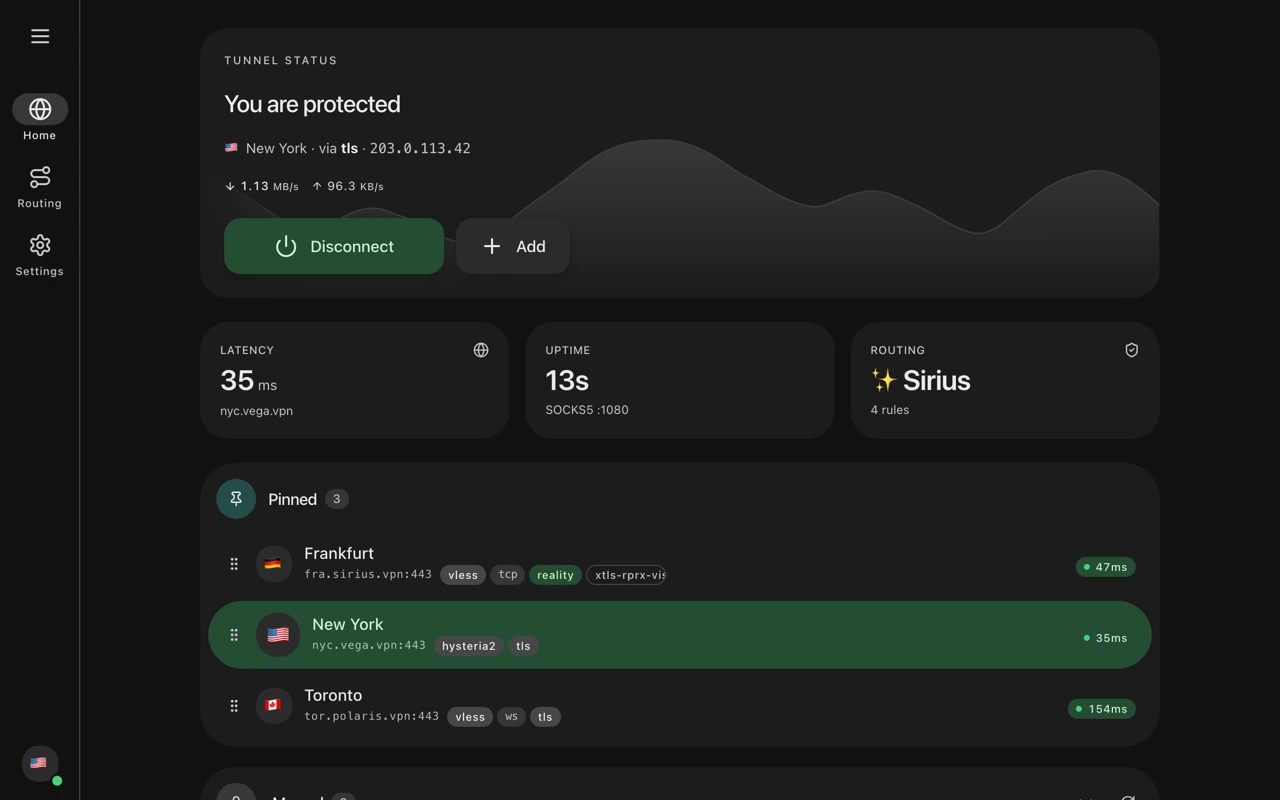
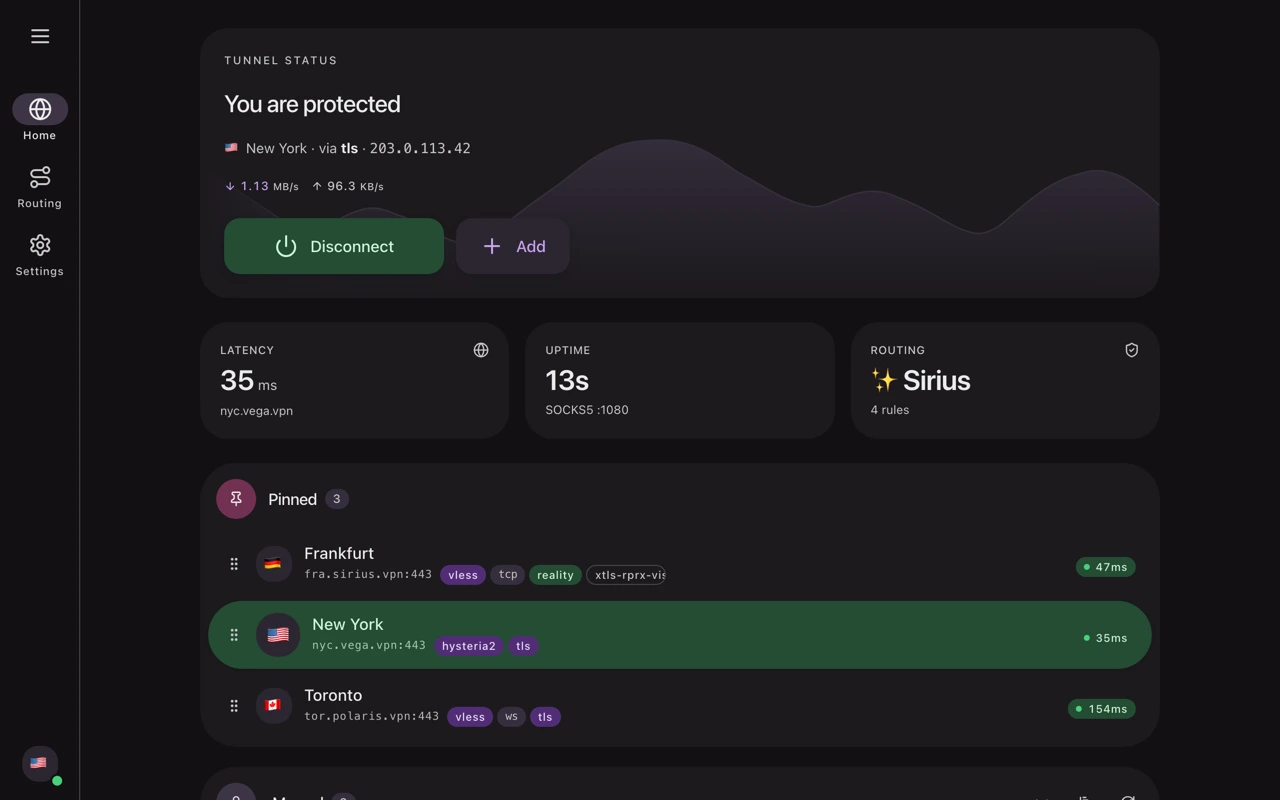
feat(site): noctis in its own violet, shorter product lines, no fact cards
- Noctis takes the planet violet its landing is set in (light
  hsl(258 56% 45%), dark hsl(256 92% 86%)) for its lamp, mark and tag,
  the way aria2t carries its blue; it was the page's ink before. Its
  Home, Routing and Settings captures are retaken with the extension's
  purple accent to match.
- Noctis's tag is "multi-engine proxy client", one line where the old one
  took three. Both leads are a sentence: Noctis runs each server on the
  engine it needs and tunnels only the browser; Aria2t gives aria2 a
  proper interface in the browser and the terminal.
- The capture and the details sit side by side from 1280px, stacked
  below: at 1100 the details ran 37-60px taller than the 16/10 capture and
  stretched its frame. The lead steps down to 19px at most.
- "Workshop" names the third slot in the index and on the rail.
- The row of three fact cards under each product is gone.

diff --git a/site/src/components/work.test.tsx b/site/src/components/work.test.tsx
@@ -17,7 +17,7 @@ describe('Work rail', () => {
     expect(tabs.map((b) => b.textContent)).toEqual([
       '01Noctisproxy client',
       '02Aria2tdownload manager',
-      '03the workshopwhat comes next',
+      '03Workshopwhat comes next',
     ]);
     expect(tabs[0]).toHaveAttribute('aria-selected', 'true');
   });
@@ -27,7 +27,7 @@ describe('Work rail', () => {
     await userEvent.click(screen.getByRole('tab', { name: /Aria2t/ }));
     expect(screen.getByRole('tabpanel')).toHaveAttribute('id', 'aria2t');
     expect(
-      screen.getByText('hands your browser downloads to aria2', { exact: false }),
+      screen.getByText('gives the aria2 engine a proper interface', { exact: false }),
     ).toBeInTheDocument();
   });
 
@@ -152,7 +152,7 @@ describe('Work rail marker', () => {
     measure(container);
     fireResize();
     expect(mark(container)).toEqual(['0px', '78']);
-    await userEvent.click(screen.getByRole('tab', { name: /the workshop/ }));
+    await userEvent.click(screen.getByRole('tab', { name: /Workshop/ }));
     expect(mark(container)).toEqual(['156px', '78']);
   });
 
@@ -317,7 +317,7 @@ describe('Work panes', () => {
   it('gives noctis its capture, its own line and three places to go', () => {
     render(<Harness />);
     expect(screen.getAllByRole('img')[0]).toHaveAttribute('src', '/media/noctis-promo-light.webp');
-    expect(screen.getByText('proxy client for sing‑box, xray and mihomo')).toBeInTheDocument();
+    expect(screen.getByText('multi-engine proxy client')).toBeInTheDocument();
     // The product's own page is the button across the card; the rest keep the
     // row under the line.
     const lead = screen.getByRole('link', { name: /Project page/ });
@@ -362,13 +362,13 @@ describe('Work panes', () => {
     );
   });
 
-  it('carries three checkable facts per product', () => {
-    render(<Harness />);
-    expect(
-      screen.getByText('Starts the engine each server needs from the three it ships with'),
-    ).toBeInTheDocument();
-    // Once on the rail, once on the first fact card.
-    expect(screen.getAllByText('01')).toHaveLength(2);
+  // The row of three fact cards under each product is gone (owner-directed):
+  // the details card says what the product is, its own site says the rest.
+  it('carries no fact cards under the product', () => {
+    const { container } = render(<Harness />);
+    expect(container.querySelector('.fact-card')).toBeNull();
+    // The ordinal lives on the rail alone now.
+    expect(screen.getAllByText('01')).toHaveLength(1);
   });
 });
 

diff --git a/site/src/styles/globals.css b/site/src/styles/globals.css
@@ -233,8 +233,12 @@
      * keeps its name because a later product may need a darker cut for text,
      * but neither of these does: both clear 4.5:1 as they stand, at 16.5 and
      * 7.3 on the card, where the pair they replace sat at 4.31 and 4.02. */
-    --led-noctis: hsl(0 0% 12%);
-    --led-noctis-ink: hsl(0 0% 12%);
+    /* Noctis's own accent, the planet violet its landing is set in: it used
+     * to be the page's ink here, the one product with no colour of its own
+     * beside aria2t's blue. Light takes the landing's light primary, which
+     * clears 4.5:1 on the card for the -ink text as well as the lamp. */
+    --led-noctis: hsl(258 56% 45%);
+    --led-noctis-ink: hsl(258 56% 45%);
     --led-aria2t: hsl(225 65% 45%);
     --led-aria2t-ink: hsl(225 65% 45%);
     --led-next: #7a7a86;
@@ -338,8 +342,8 @@
     --shot-bar-ink: rgb(255 255 255 / 0.92);
     --bar: rgb(13 13 15);
 
-    --led-noctis: hsl(0 0% 92%);
-    --led-noctis-ink: hsl(0 0% 92%);
+    --led-noctis: hsl(256 92% 86%);
+    --led-noctis-ink: hsl(256 92% 86%);
     --led-aria2t: hsl(221 85% 72%);
     --led-aria2t-ink: hsl(221 85% 72%);
     --led-next: #9a9aa6;
@@ -403,8 +407,8 @@
       --shot-bar-ink: rgb(255 255 255 / 0.92);
       --bar: rgb(13 13 15);
 
-      --led-noctis: hsl(0 0% 92%);
-      --led-noctis-ink: hsl(0 0% 92%);
+      --led-noctis: hsl(256 92% 86%);
+      --led-noctis-ink: hsl(256 92% 86%);
       --led-aria2t: hsl(221 85% 72%);
       --led-aria2t-ink: hsl(221 85% 72%);
       --led-next: #9a9aa6;
@@ -1511,19 +1515,6 @@
     --led: var(--led-next);
     --led-ink: var(--led-next-ink);
   }
-  .fact-card {
-    display: flex;
-    flex-direction: column;
-    justify-content: center;
-    gap: var(--gap-knit);
-    min-height: 0;
-    padding: 16px;
-    border-radius: var(--shape-md);
-    border: 1px solid hsl(var(--outline-variant));
-    background: hsl(var(--surface-container-low));
-    /* Still under the pointer: nothing here can be clicked, and a lift said
-     * it could. */
-  }
   /* The product's own page is what the whole entry points at, so it is a button
    * across the card rather than the first of three equal names in a row. Its
    * fill is the ink of the card it sits on, which is the page's rule for a
@@ -1981,8 +1972,7 @@
     }
     .glass,
     .block-card,
-    .pane,
-    .fact-card {
+    .pane {
       background: #fff;
       color: #111;
       box-shadow: none;

diff --git a/site/src/components/work.tsx b/site/src/components/work.tsx
@@ -174,12 +174,13 @@ function Pane({ project, onOpen, auto }: PaneProps) {
       aria-labelledby={`rail-${project}`}
       tabIndex={-1}
     >
-      {/* An explicit grid, because flex-wrap left the arrangement to arithmetic
-          and the answer changed twice on the way out: the three facts sat in one
-          column to 1100, spread to three to 1440, then collapsed back into a
-          234px column above 1600. Two rows now, at every width that has room
-          for them, so a reader resizing sees one layout. */}
-      <div className="grid gap-[var(--gap-part)] [grid-template-columns:minmax(0,1fr)] min-[1100px]:[grid-template-columns:minmax(0,1.5fr)_minmax(0,1fr)]">
+      {/* The capture and the details side by side from 1280, stacked below:
+          measured at 1100 the details ran 37-60px taller than the 16/10
+          capture beside them and stretched its frame into a matte.
+          The row of three fact cards that sat under them is gone (owner-
+          directed): the details card says what the product is, and the
+          product's own site says the rest. */}
+      <div className="grid gap-[var(--gap-part)] [grid-template-columns:minmax(0,1fr)] min-[1280px]:[grid-template-columns:minmax(0,1.5fr)_minmax(0,1fr)]">
         <Screen project={project} onOpen={onOpen} auto={auto} />
 
         <div className="pane pane-details">
@@ -208,21 +209,13 @@ function Pane({ project, onOpen, auto }: PaneProps) {
               </h3>
               <span className="tag text-led-ink">{t(`home.work.${project}_own`)}</span>
             </div>
-            <p className="m-0 text-pretty text-[clamp(16px,1.5vw,20px)] leading-snug tracking-[var(--track-name)]">
+            <p className="m-0 text-pretty text-[clamp(16px,1.25vw,19px)] leading-snug tracking-[var(--track-name)]">
               {t(`home.work.${project}_lead`)}
             </p>
             <PaneLinks project={project} />
           </div>
         </div>
 
-        <div className="grid auto-rows-fr grid-cols-[repeat(auto-fit,minmax(220px,1fr))] gap-[var(--gap-group)] min-[1100px]:col-span-2">
-          {['f1', 'f2', 'f3'].map((f, i) => (
-            <div className="fact-card" key={f}>
-              <span className="ordinal">{`0${i + 1}`}</span>
-              <span className="note">{t(`home.work.${project}_${f}`)}</span>
-            </div>
-          ))}
-        </div>
       </div>
     </div>
   );

diff --git a/site/src/components/hero.test.tsx b/site/src/components/hero.test.tsx
@@ -35,8 +35,8 @@ describe('Hero', () => {
 
   it('lists the unbuilt third slot as a statement rather than a control', () => {
     render(<Hero onPick={vi.fn()} />);
-    expect(screen.getByText('in the workshop')).toBeInTheDocument();
-    expect(screen.queryByRole('link', { name: /in the workshop/ })).toBeNull();
+    expect(screen.getByText('Workshop')).toBeInTheDocument();
+    expect(screen.queryByRole('link', { name: /Workshop/ })).toBeNull();
     expect(screen.getByText('listed when it is ready to ship')).toBeInTheDocument();
   });
 
